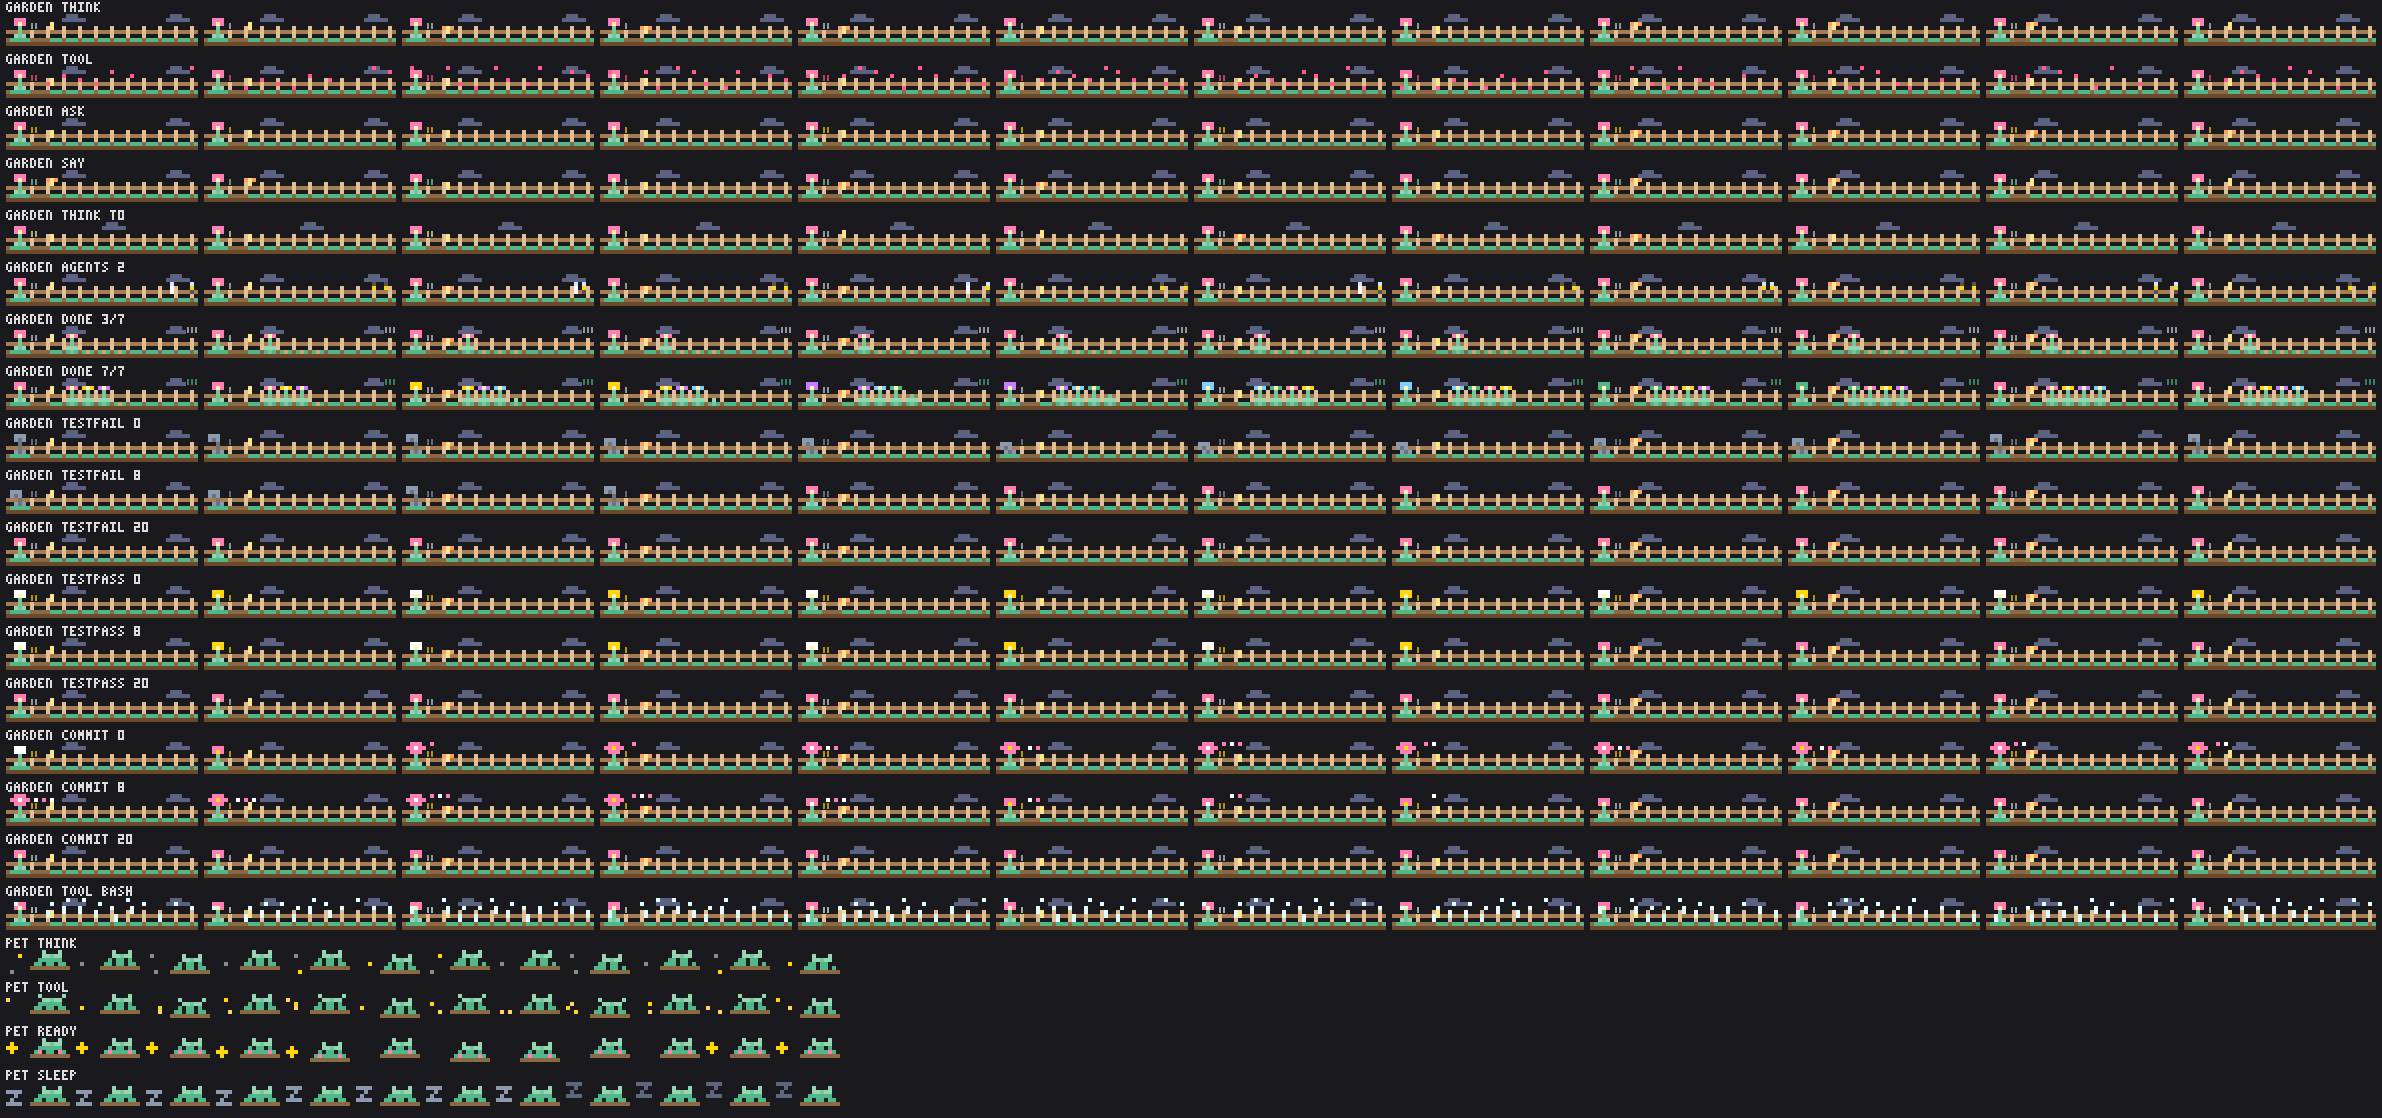
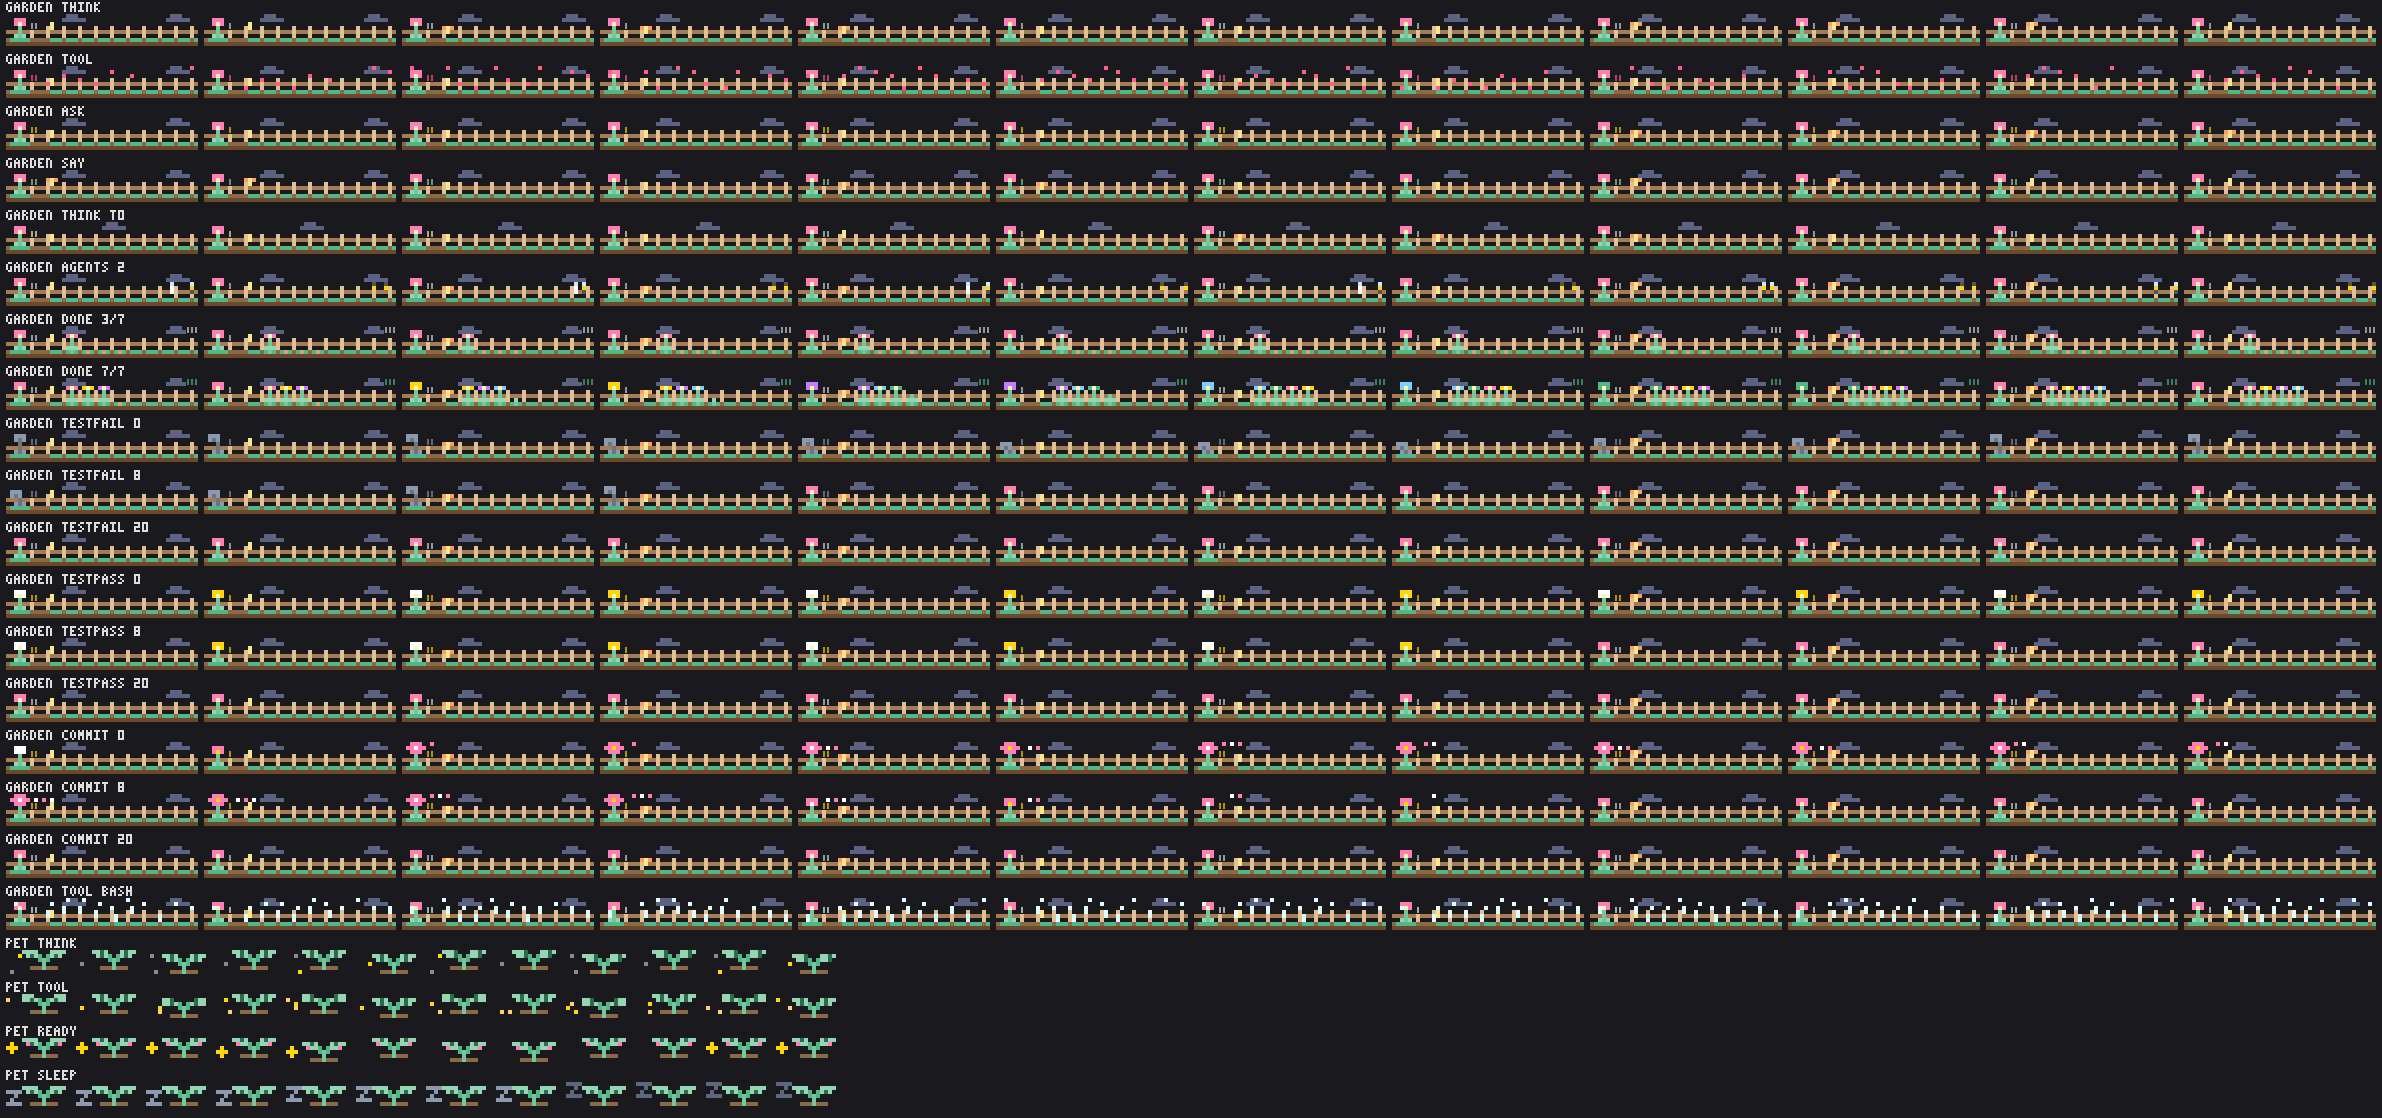
showtime: garden pet — a sprout at a glance (review fix); two light leaves forking up and out in a V from a thin three-pixel stem in a small soil mound, darker green where they meet the stem, the eyes dark green on the leaves so they no longer cut them, the mouth at the fork, instead of a green dome

Changed region(s): [[0.0, 0.8515, 0.3728, 1.0]]

diff --git a/showtime/hooks/themes/garden.ts b/showtime/hooks/themes/garden.ts
@@ -274,16 +274,16 @@ export function gardenScene(t: number, w: number, s: Signals): Grid {
   return g
 }
 
-/** A sprout: two leaves on a stem over a round green seedling in its soil. */
+/** A sprout: two leaves forking up and out in a V from a thin stem in a small soil mound, eyes on the leaves. */
 export const PET: PetArt = {
-  body: ['.....L...L..', '.....LLSLL..', '....GGGGGG..', '...GGGGGGGG.', '..BBBBBBBBBB'],
-  step: ['....L.....L.', '.....LLSLL..', '....GGGGGG..', '...GGGGGGGG.', '..BBBBBBBBBB'],
-  colors: { L: LEAF, S: STEM, G: GREEN, B: SOIL_LIGHT },
-  eyes: [5, 8],
-  eyeRow: 2,
-  eye: '#1d1d1d',
-  lid: GREEN,
-  mouth: [6, 3],
+  body: ['LLLL...LLLL.', '.LLLG.GLLL..', '....GSG.....', '.....S......', '..DDDSDDD...'],
+  step: ['LLL.....LLL.', 'LLLLG.GLLLL.', '....GSG.....', '.....S......', '..DDDSDDD...'],
+  colors: { L: LEAF, G: GREEN, S: STEM, D: SOIL_LIGHT },
+  eyes: [2, 8],
+  eyeRow: 0,
+  eye: '#2d6a4f',
+  lid: LEAF,
+  mouth: [5, 2],
   blush: PINK,
   spark: GOLD,
 }
